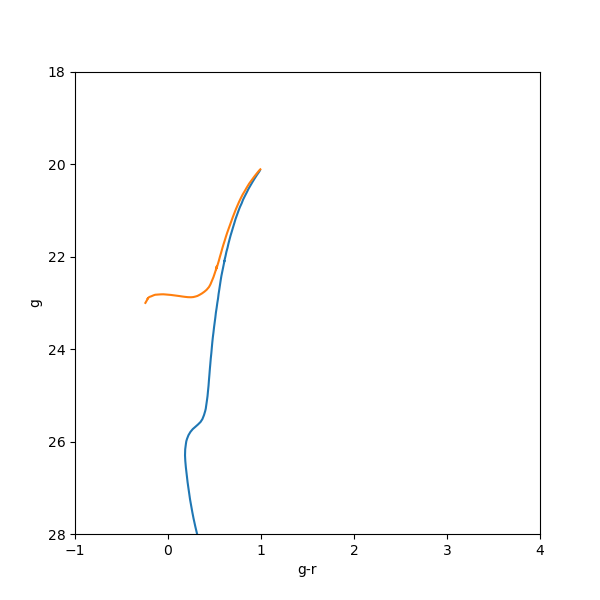
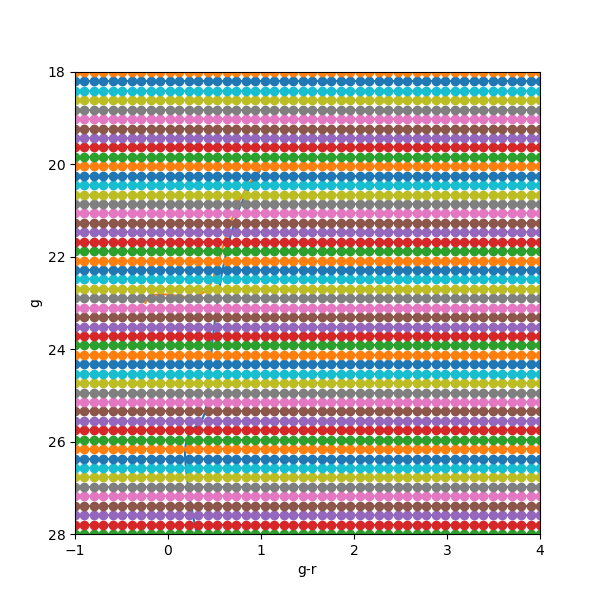
Adding some iso tests

diff --git a/lsst_ufd/isochrone_test.py b/lsst_ufd/isochrone_test.py
@@ -4,6 +4,49 @@ import simple_adl.simple_adl.isochrone as isochrone
 import simple_adl.simple_adl.coordinate_tools as coordinate_tools
 import matplotlib.pyplot as plt
 import numpy as np
+from astropy.table import Table
+
+def cut_isochrone_path(g, r, g_err, r_err, isochrone, radius=0.1, return_all=False):
+    """
+    Cut to identify objects within isochrone cookie-cutter.
+    """
+    if np.all(isochrone.stage == 'Main'):
+        # Dotter case
+        index_transition = len(isochrone.stage)
+    else:
+        # Other cases
+        index_transition = np.nonzero(isochrone.stage >= isochrone.hb_stage)[0][0] + 1    
+
+    mag_1_rgb = isochrone.mag_1[0: index_transition] + isochrone.distance_modulus
+    mag_2_rgb = isochrone.mag_2[0: index_transition] + isochrone.distance_modulus
+    
+    mag_1_rgb = mag_1_rgb[::-1]
+    mag_2_rgb = mag_2_rgb[::-1]
+
+    # Cut one way...
+    f_isochrone = scipy.interpolate.interp1d(mag_2_rgb, mag_1_rgb - mag_2_rgb, bounds_error=False, fill_value = 999.)
+    color_diff = np.fabs((g - r) - f_isochrone(r))
+    cut_2 = (color_diff < np.sqrt(0.1**2 + r_err**2 + g_err**2))
+
+     # ...and now the other
+    f_isochrone = scipy.interpolate.interp1d(mag_1_rgb, mag_1_rgb - mag_2_rgb, bounds_error=False, fill_value = 999.)
+    color_diff = np.fabs((g - r) - f_isochrone(g))
+    cut_1 = (color_diff < np.sqrt(0.1**2 + r_err**2 + g_err**2))
+
+    cut = np.logical_or(cut_1, cut_2)
+
+    #mag_bins = np.arange(17., 24.1, 0.1)
+    mag_bins = np.arange(17., mag_max+0.1, 0.1)
+    mag_centers = 0.5 * (mag_bins[1:] + mag_bins[0:-1])
+    magerr = np.tile(0., len(mag_centers))
+    for ii in range(0, len(mag_bins) - 1):
+        cut_mag_bin = (g > mag_bins[ii]) & (g < mag_bins[ii + 1])
+        magerr[ii] = np.median(np.sqrt(0.1**2 + r_err[cut_mag_bin]**2 + g_err[cut_mag_bin]**2))
+
+    if return_all:
+        return cut, mag_centers[f_isochrone(mag_centers) < 100], (f_isochrone(mag_centers) + magerr)[f_isochrone(mag_centers) < 100], (f_isochrone(mag_centers) - magerr)[f_isochrone(mag_centers) < 100]
+    else:
+        return cut
 
 distance = 300 # kpc
 #distance_modulus = ugali.utils.projector.distanceToDistanceModulus(distance)
@@ -19,9 +62,25 @@ iso = isochrone.Isochrone(
         survey= survey.lower(),
         band_1= bands[0],
         band_2= bands[1])
+
+g = np.linspace(28,18,50)
+g_r = np.linspace(-1,4,50)
+G, G_R = np.meshgrid(g,g_r)
+R = -1*G_R + G
+data = Table()
+data['g'] = G
+data['r'] = R
+data['g_err'] = np.linspace(0,0,50)
+data['r_err'] = np.linspace(0,0,50)
+
+#cut = search.cut_isochrone_path()
+#data = data[cut]
+
 fig, ax = plt.subplots(1,1, figsize=(6,6))
 index = np.min(np.where(iso.stage == iso.hb_stage)[0]) + 1
 ax.set(xlabel = 'g-r', ylabel = 'g', xlim = (-1,4), ylim = (28,18))
 ax.plot(iso.mag_1[0:index] - iso.mag_2[0:index], iso.mag_1[0:index] + distance_modulus)
 ax.plot(iso.mag_1[index:] - iso.mag_2[index:], iso.mag_1[index:] + distance_modulus)
+ax.plot(data['g']-data['r'], data['g'], marker = 'o')
+
 plt.savefig('/global/u2/k/kexcell/ultrafaints/plots/iso_test.png')
